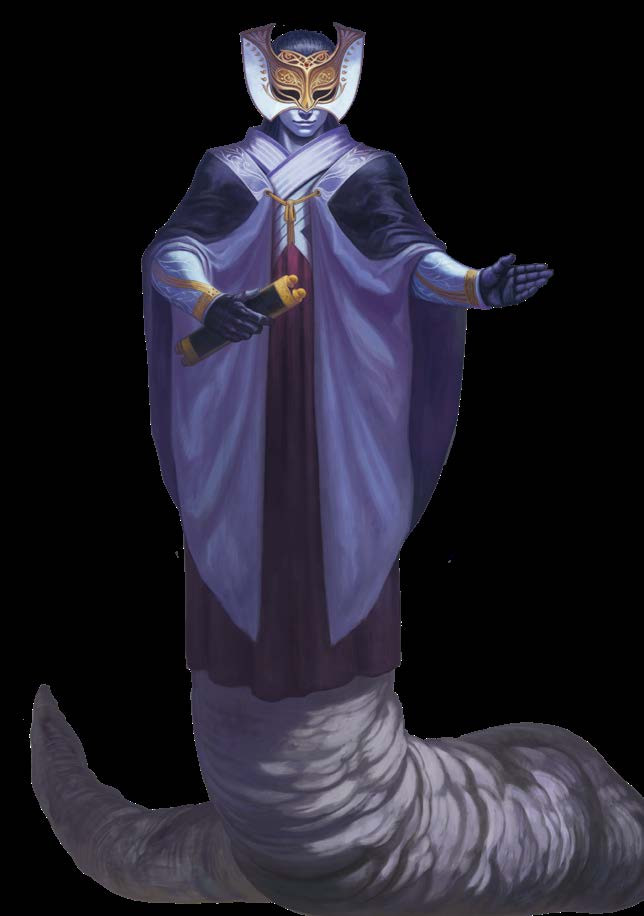
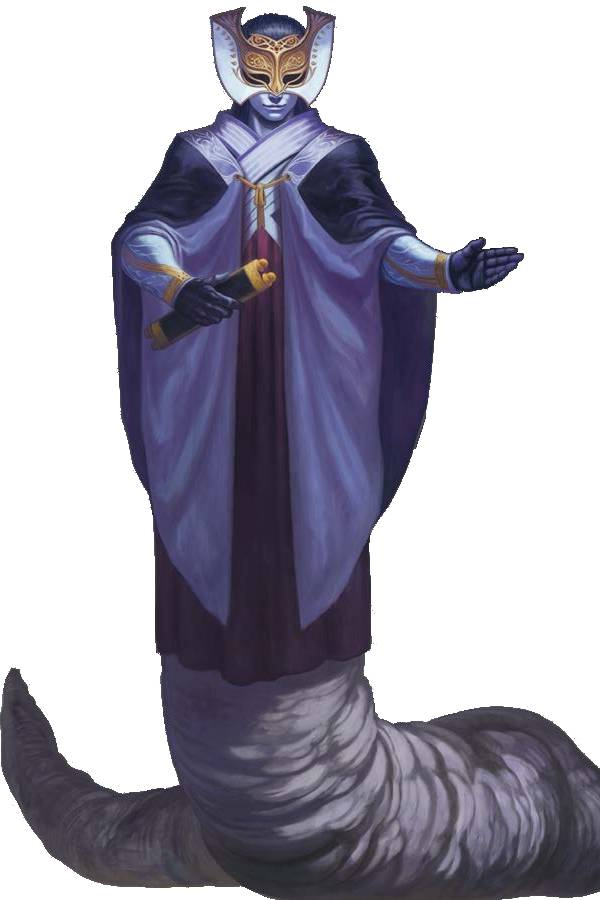
upgrade images displayed

diff --git a/tyrant/heroes.html b/tyrant/heroes.html
@@ -229,7 +229,7 @@
       </section>
       <section>
         <h3>Trait: Hungry for Life</h3>
-        <img src="/tyrant/images/psychopomp-8-calaca1.jpg" alt="Overhealing">
+        <img src="/tyrant/images/psychopomp-8-calaca.jpg" alt="Overhealing">
         <p>Your body is able to contain more life than seems possible. When you gain hp via positive energy effects, such as <i>Cure Light Wounds</i> or <i>Lay on Hands</i>, you are able to heal above your maximum hp. Any healing above your maximum hp becomes temporary hp, with a maximum of 1 temporary hp per die rolled (or per caster level for spells or effects that heal a set amount per caster level, such as <i>Heal</i>), including any existing temporary hp.</p>
         <p>Your soul seems to crave this excess life, which fills your character with a modicum of euphoria. However, this also results in all temporary hp decaying at a rate of 1/minute, regardless of its source, as though damage is being taken.</p>
         <!-- <p>If your temporary hp ever equals or exceeds your constitution score, your body tears at its seams as your soul rapidly escapes, causing your body to explode with radiant positive energy, slaying you and destroying your body completely. All creatures within thirty feet are healed or harmed by 1d4 points of positive energy per hit die you possessed as <i>channel positive energy</i>, with a Will save DC of 10 + HD for half. All objects on your person take an equal amount of damage, though intelligent objects may attempt a Will save.</p> -->
@@ -253,7 +253,7 @@
       </section>
       <!-- <section>
         <h3>Special Quality: Banished from Death</h3>
-        <img src="/tyrant/images/psychopomp-20-yamaraj2.jpg" alt="Banished from Death">
+        <img src="/tyrant/images/psychopomp-20-yamaraj.jpg" alt="Banished from Death">
         <p>Your soul has been pinned permanenrly to your body and you have been banished from death. This banishment is a blessing and a curse, forcing your body to reform as long as your soul is not destoyed.</p>
         <p>The first time each day you are slain, your body returns to life after one hour at 1hp. The increased potency of the effect of the strange whispers and dreams during this time, and its accompanying loss of quintessence, results in losing an amount of xp equal to half the difference between your current and next level. This experience loss may result in actual level loss, but no more than one.</p>
         <p>If you cannot or choose not to return to your body, your body was mangled, destroyed, or killed via a death effect, you already died previously that day, or your otherwise unable to be restored, your body instead crumbles to dust after one hour, along with all equipment still on your person, and any items boded to your character - wherever they are in the world. During this time, your strange dreams are particularly vivid and lucid, after which you respawn after a long rest in a place chosen by the GM, typically within 1 mile of another Obol. These especially vivid dreams drain even more of your quintessence, resulting in enough experience loss to lose one full level and all excess xp, though the intermingling of these strange memories allows a player to reassign their class level choices.</p>
